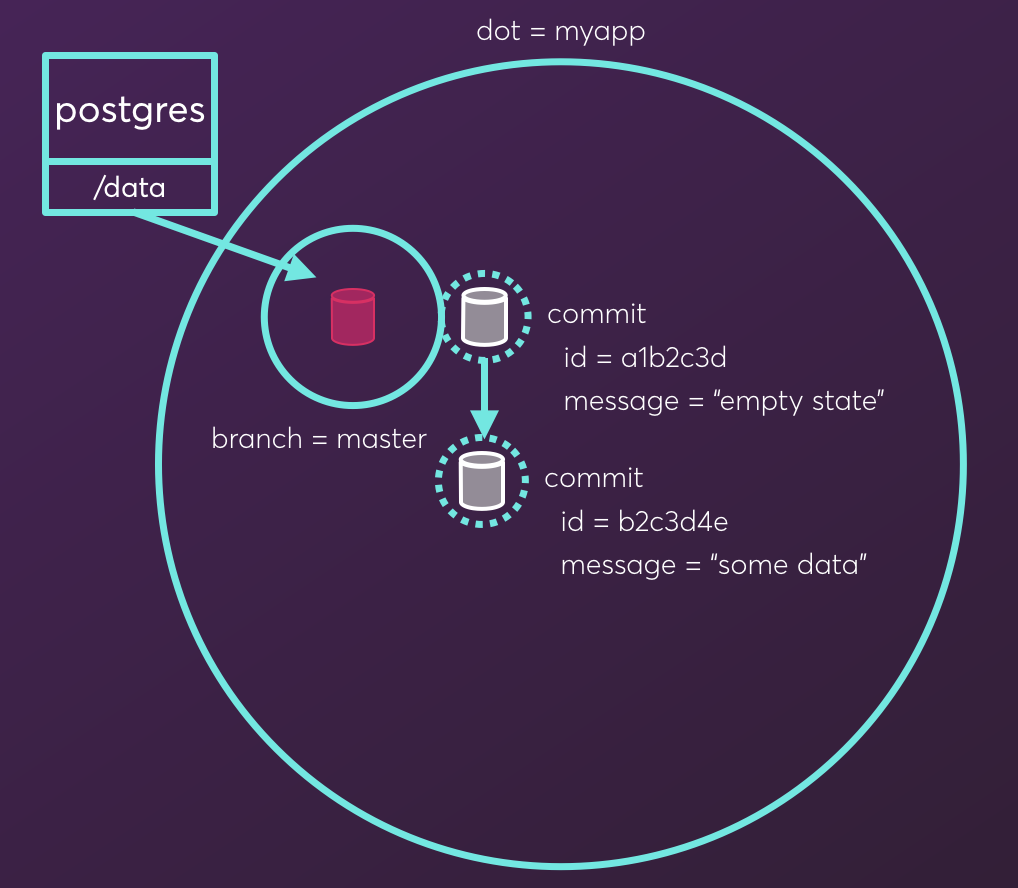
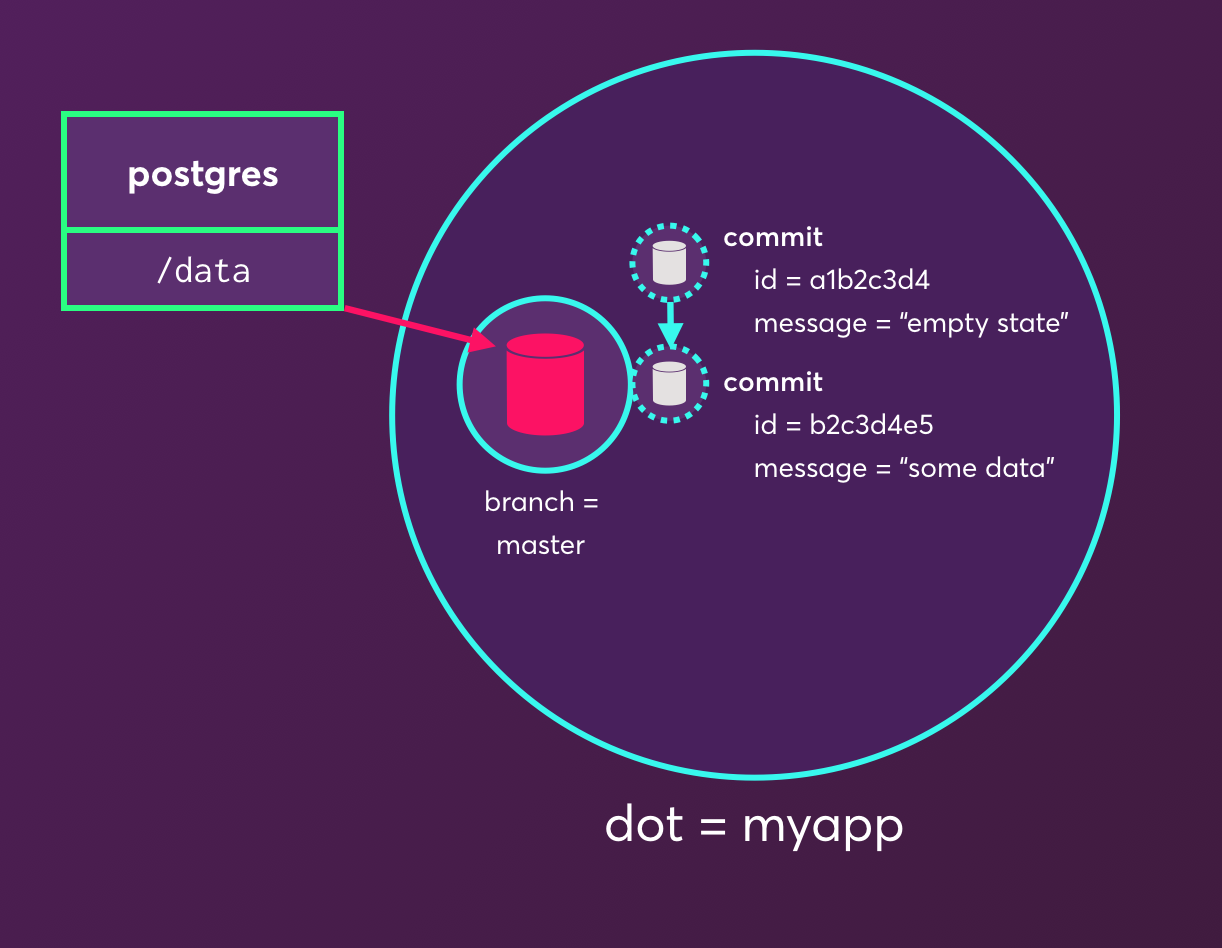
adding images for concepts section

diff --git a/hugo/content/concepts/what-is-a-datadot.md b/hugo/content/concepts/what-is-a-datadot.md
@@ -24,9 +24,9 @@ docker run -d --volume-driver dm \
     -v myapp:/var/lib/postgres/data --name postgres postgres
 ```
 
-This creates a datadot called `myapp`, creates the default `master` branch in that datadot, mounts the `master` branch into `/data` in the `postgres` container, and starts the `postgres` container, like this:
+This creates a datadot called `myapp`, creates the writeable filesystem for the default `master` branch in that datadot, mounts the writeable filesystem for the `master` branch into `/var/lib/postgres/data` in the `postgres` container, and starts the `postgres` container, like this:
 
-<img src="/hugo/what-is-a-datadot-01-myapp-dot.png" alt="myapp dot with master branch and postgres container's /data volume attached" style="width: 50%;" />
+<img src="/hugo/what-is-a-datadot-01-myapp-dot.png" alt="myapp dot with master branch and postgres container's /data volume attached" style="width: 80%;" />
 
 You can see this in the `dm list` output:
 
@@ -35,13 +35,14 @@ dm list
 ```
 
 ```plain
-  DATADOT  BRANCH  SERVER   CONTAINERS  SIZE       COMMITS  DIRTY
+  DOT      BRANCH  SERVER   CONTAINERS  SIZE       COMMITS  DIRTY
 * myapp    master  a1b2c3d  /postgres   19.00 kiB  0        19.00 kiB
 ```
+The current branch is shown in the `BRANCH` column and the current dot is marked with a `*` in the `dm list` output.
 
 ## Commits
 
-You can commit a datadot by ensuring the dot is active:
+You can commit a datadot by switching to it, which, like `cd`'ing into a git repo, makes it the "current" dot:
 
 ```bash
 dm switch myapp
@@ -54,7 +55,6 @@ dm commit -m "empty state"
 ```
 
 This creates a commit: a point-in-time snapshot of the state of the filesystem on the current branch for the current dot.
-The current branch is shown in the `BRANCH` column and the current dot is marked with a `*` in the `dm list` output.
 
 Suppose PostgreSQL then writes some data to the docker volume.
 You can then capture this new state in another commit with:
@@ -81,7 +81,7 @@ TODO: capture dm log output
 
 Commits are made immediately and atomically: they are "consistent snapshots" in the sense used [in the PostgreSQL documentation](https://www.postgresql.org/docs/current/static/backup-file.html).
 
-It's safe to create a commit while a database is running as long as the database supports recovering from a crash.
+It's safe to create a commit while a database is running as long as the database supports recovering from a power outage.
 
 ### Rollback
 
@@ -90,6 +90,9 @@ Given the example above, you can roll back to the first commit with:
 ```bash
 dm reset --hard HEAD^
 ```
+
+`HEAD^` means "one commit before the latest commit on the current branch".
+You can also do `dm log` and refer to commits by id.
 
 Note that rolling back stops the containers using a branch before the rollback, and starts them again afterwards.
 Otherwise, the database would be confused by its data directory changing "under its feet".
@@ -114,20 +117,27 @@ A `.` character is used to separated the dot name from the subdot name.
 * `myapp.catalog-db`
 
 Example Docker Compose syntax would be:
+
 ```yaml
   # ...
   orders-db:
     image: mongo:3.4
     hostname: orders-db
     volume_driver: dm
-    volume: myapp.orders-db:TODO
+    volume: myapp.orders-db:/data/db
   # ...
-  catalogue-db:
+  catalog-db:
     image: mysql:5.6
-    hostname: catalogue-db
-    volume: myapp.catalogue-db:TODO
+    hostname: catalog-db
+    volume: myapp.catalog-db:/var/lib/mysql
   # ...
 ```
+
+Starting the above Docker Compose file would create a dot with the following structure:
+
+<img src="/hugo/what-is-a-datadot-03-myapp-subdots.png" alt="a dot with an orders-db and catalog-db subdots" style="width: 80%;" />
+
+The subdots are "partitions" of the master branch's writeable filesystem so that different containers can have different parts of it.
 
 Commits and branches of a datadot apply to the _entire_ datadot, not specific subdots.
 This means that your datadot commits can represent snapshots of the state of your _entire application_, not the individual data services.
@@ -138,11 +148,42 @@ See the [subdots tutorial](TODO) for a more complete example.
 ## Branches
 
 Just like `git`, you can make a branch from a commit on a datadot.
+You can checkout a branch and create it at the same time with:
 
 ```bash
 dm checkout -b bug-16637
-dm commit -m "[...]"
 ```
+
+Then suppose you make some changes to the current dot by interacting with the app, which modifies its databases.
+You can then capture these changes:
+
+```bash
+dm commit -m "Reproducer for bug 16637"
+```
+
+Finally, you can go back to the original `master` branch:
+
+```bash
+dm checkout master
+```
+
+When switching branches on a dot, containers that are using the dot are stopped, the branch is switched out underneath them, and then the containers are started again.
+
+If you want to disable this behavior, you can pin a branch by specifying `dot@branch` rather than just `dot` when specifying the dot name.
+
+The following commands:
+```bash
+dm commit -m "A"
+dm commit -m "B"
+dm checkout -b newbranch
+dm commit -m "C"
+dm checkout master
+dm commit -m "D"
+dm checkout newbranch
+dm commit -m "E"
+```
+
+Would create the following dot structure:
 
 
 ## Pushing
